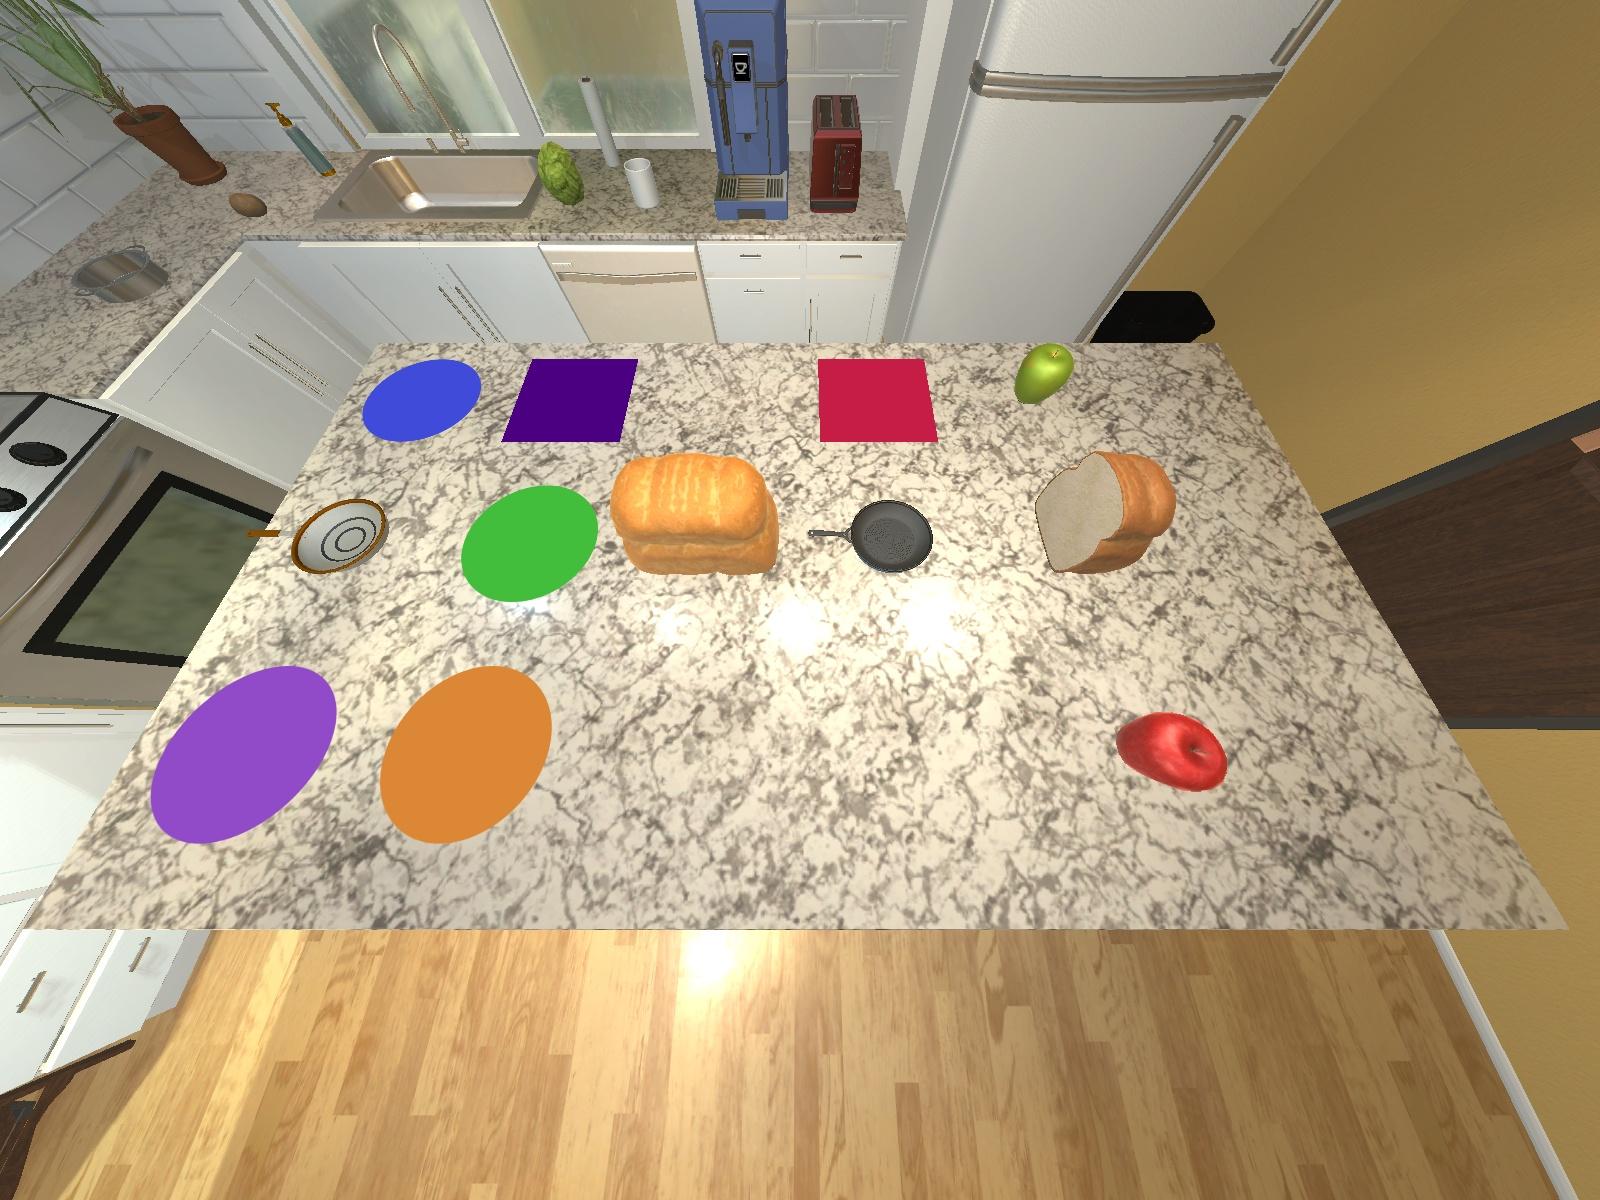
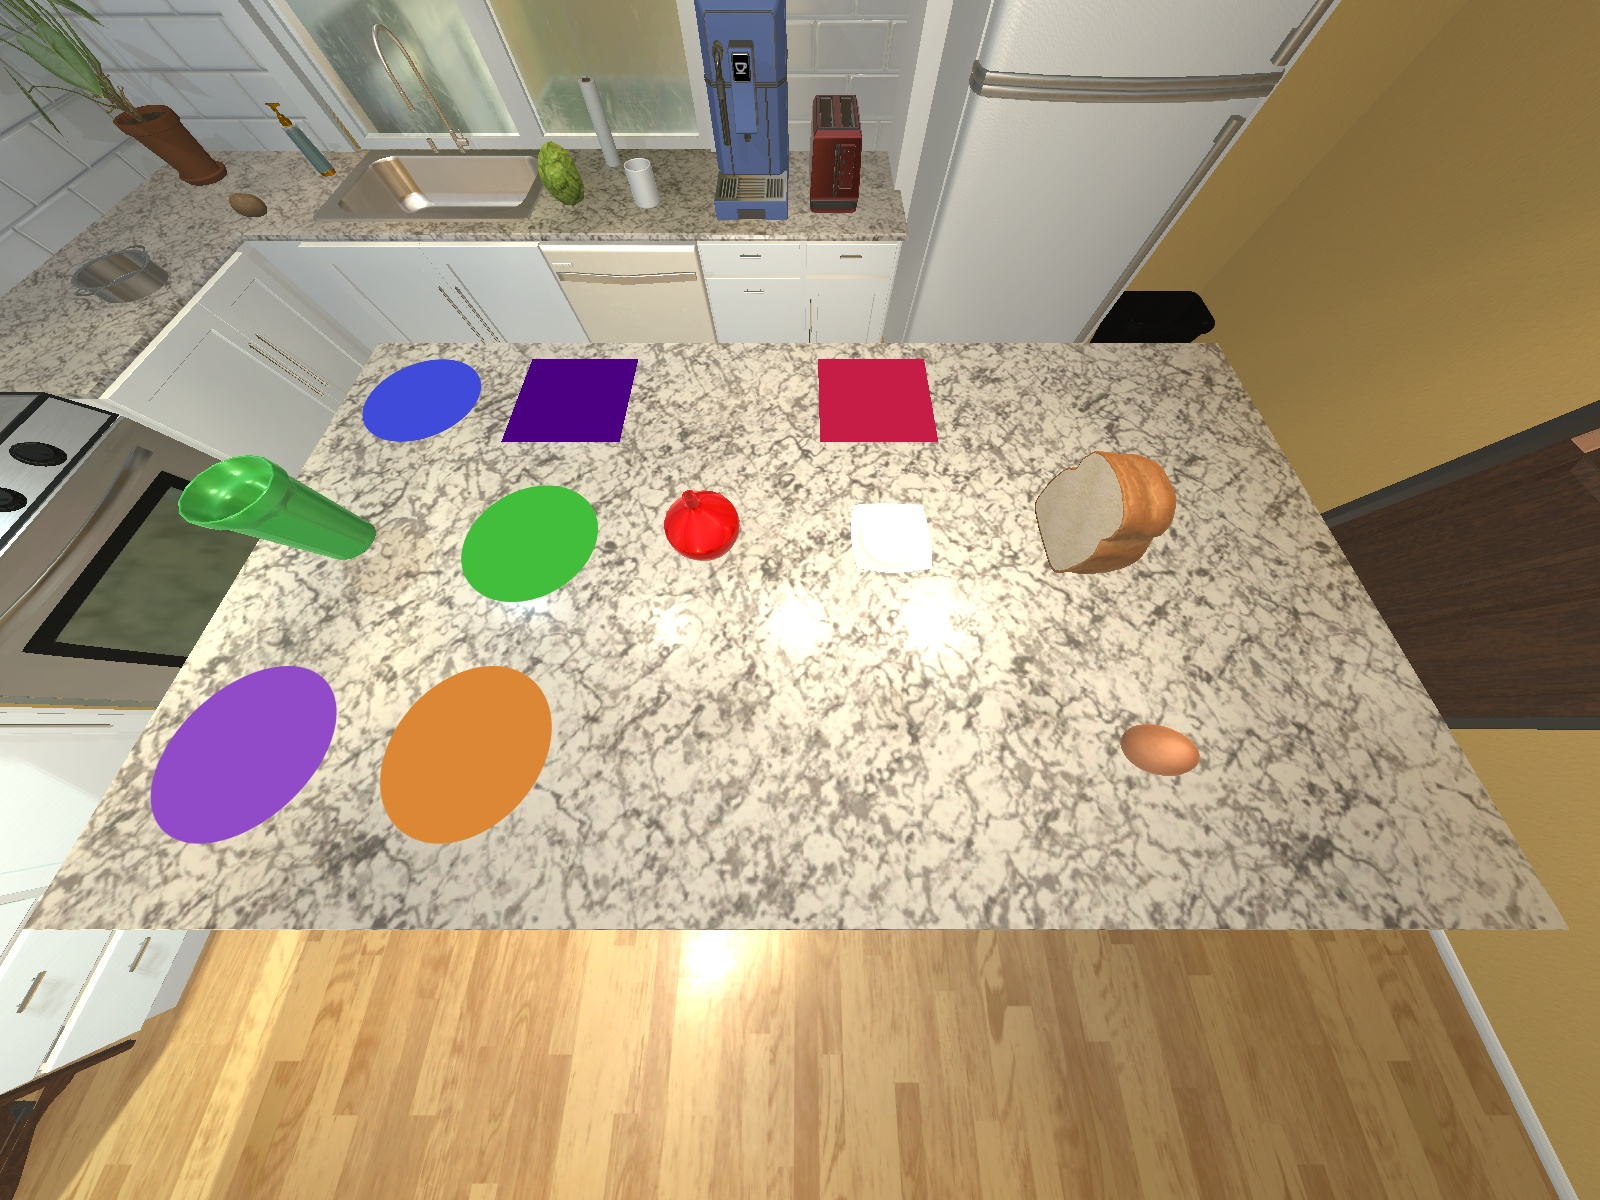
added breakable objects back into test scenes

diff --git a/src/test_ithor.py b/src/test_ithor.py
@@ -71,9 +71,9 @@ print("*" * 20)
 
 commands = [
     "\\discard #6",
-    "\\request #1",
-    "\\put #3 on #V",
-    "\\put #3 on #table",
+    "\\request #16",
+    "\\put #22 on #V",
+    "\\put #22 on #table",
     "\\done",
 ]
 for c in commands:
